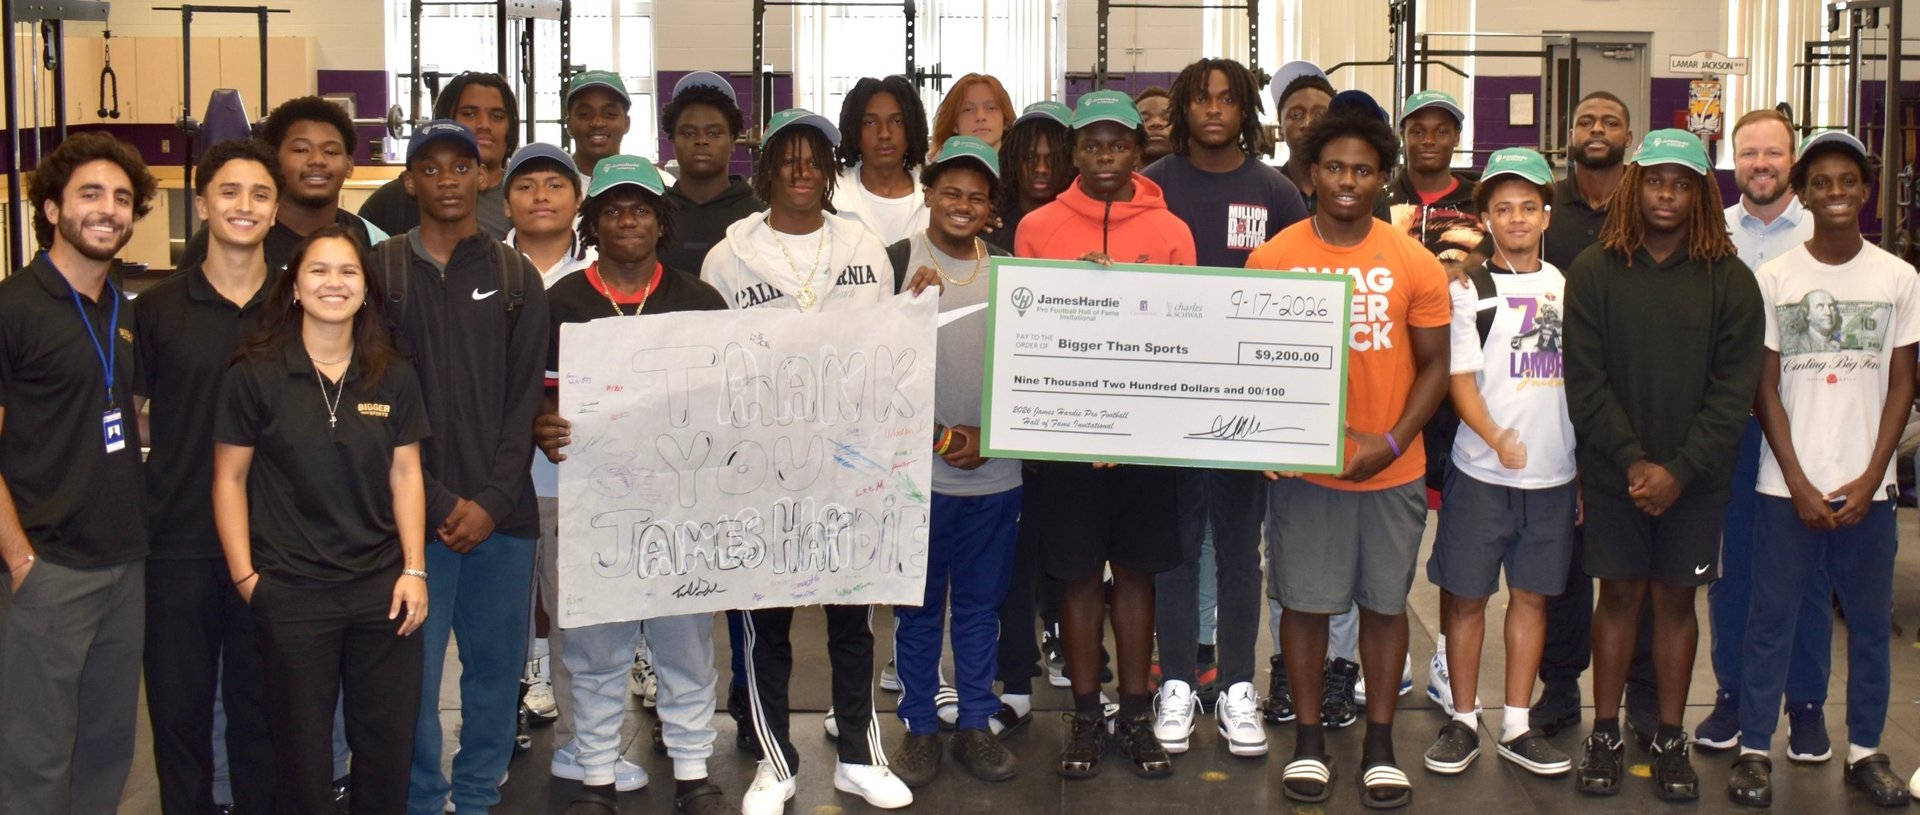
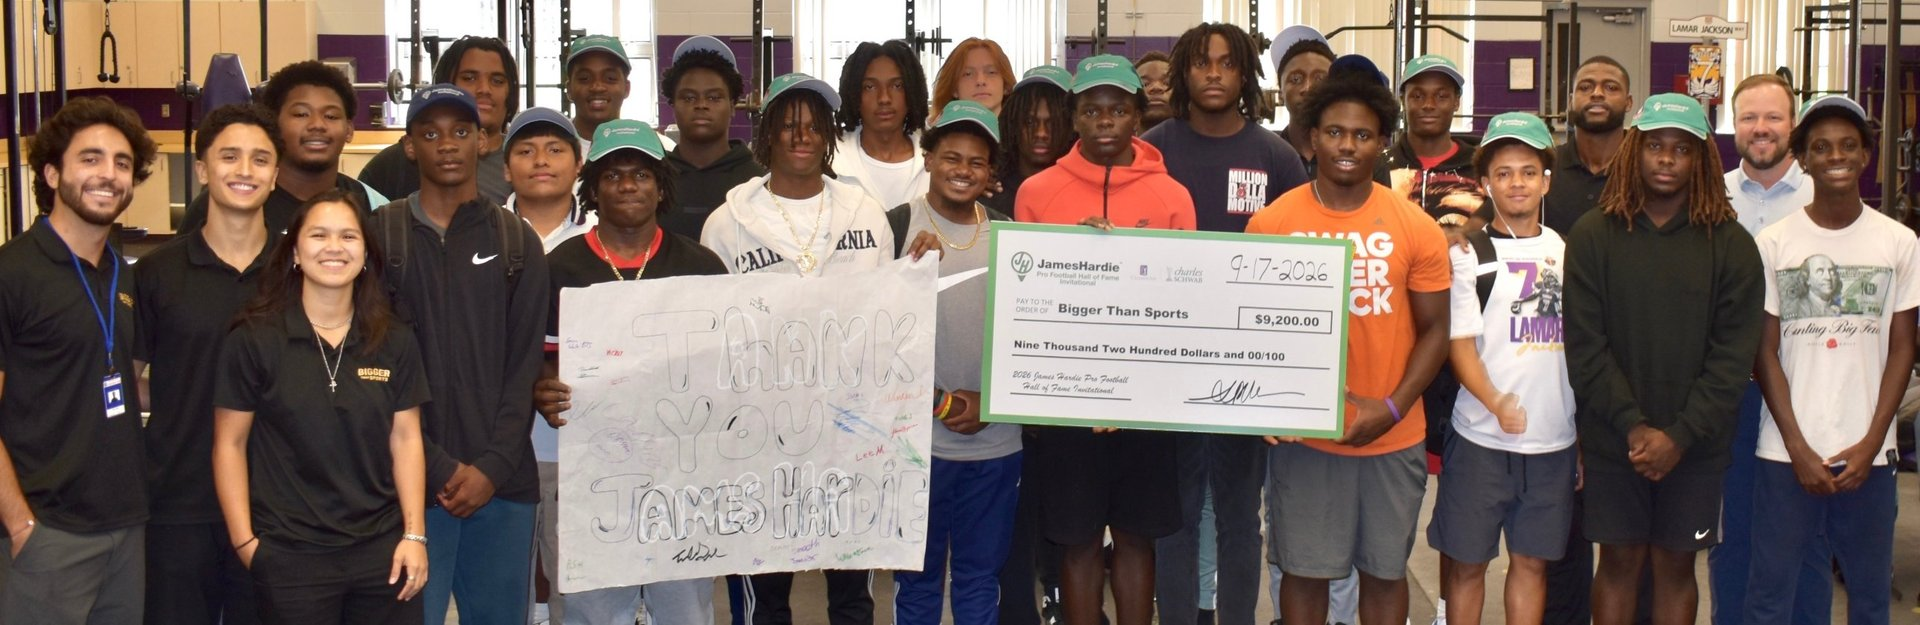
Shrink Donate CTA to footer size with wider/shorter photo crop

diff --git a/style.css b/style.css
@@ -982,14 +982,14 @@ footer.site-footer .ein{ opacity: 0.6; margin-top: 10px; }
 .final-cta{
   text-align: center;
   width: 100%;
-  aspect-ratio: 2576 / 1094;
+  aspect-ratio: 2576 / 838;
   min-height: 220px;
-  max-height: 85vh;
+  max-height: 60vh;
   display: flex;
   flex-direction: column;
   align-items: center;
   justify-content: center;
-  background: linear-gradient(to bottom, rgba(0,0,0,0.78) 0%, rgba(0,0,0,0.3) 50%, rgba(0,0,0,0.78) 100%), url('final-cta-bg.jpg?v=20261115c') center/cover no-repeat;
+  background: linear-gradient(to bottom, rgba(0,0,0,0.78) 0%, rgba(0,0,0,0.3) 50%, rgba(0,0,0,0.78) 100%), url('final-cta-bg.jpg?v=20261115d') center/cover no-repeat;
   padding: 24px 24px;
 }
 .final-cta .tagline{

diff --git a/index.html b/index.html
@@ -16,7 +16,7 @@
 <meta name="twitter:image" content="https://iwaite-maker.github.io/bigger-than-sports-co-org/og-image.jpg">
 <link rel="preconnect" href="https://fonts.googleapis.com">
 <link href="https://fonts.googleapis.com/css2?family=Montserrat:wght@400;500;600;700;800;900&family=Arvo:wght@700&display=swap" rel="stylesheet">
-<link rel="stylesheet" href="style.css?v=20261116c">
+<link rel="stylesheet" href="style.css?v=20261116d">
 <link rel="icon" href="logo.png">
 </head>
 <body>
